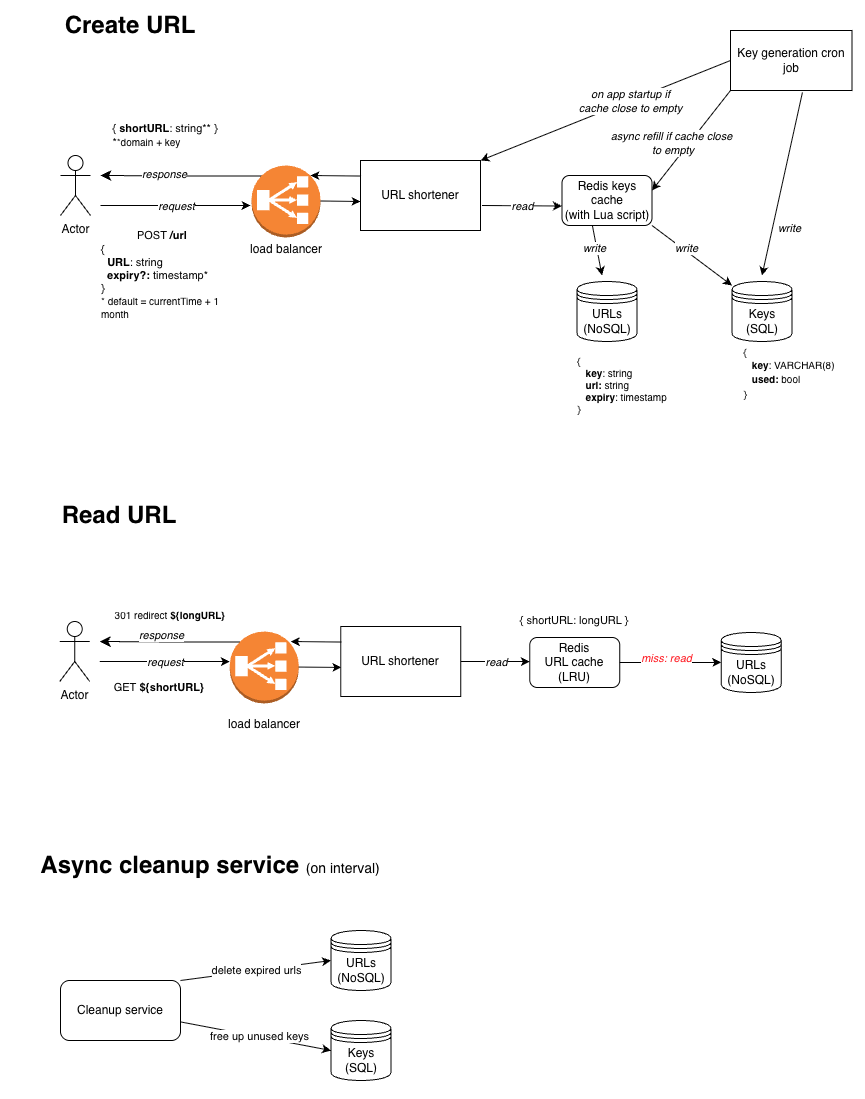
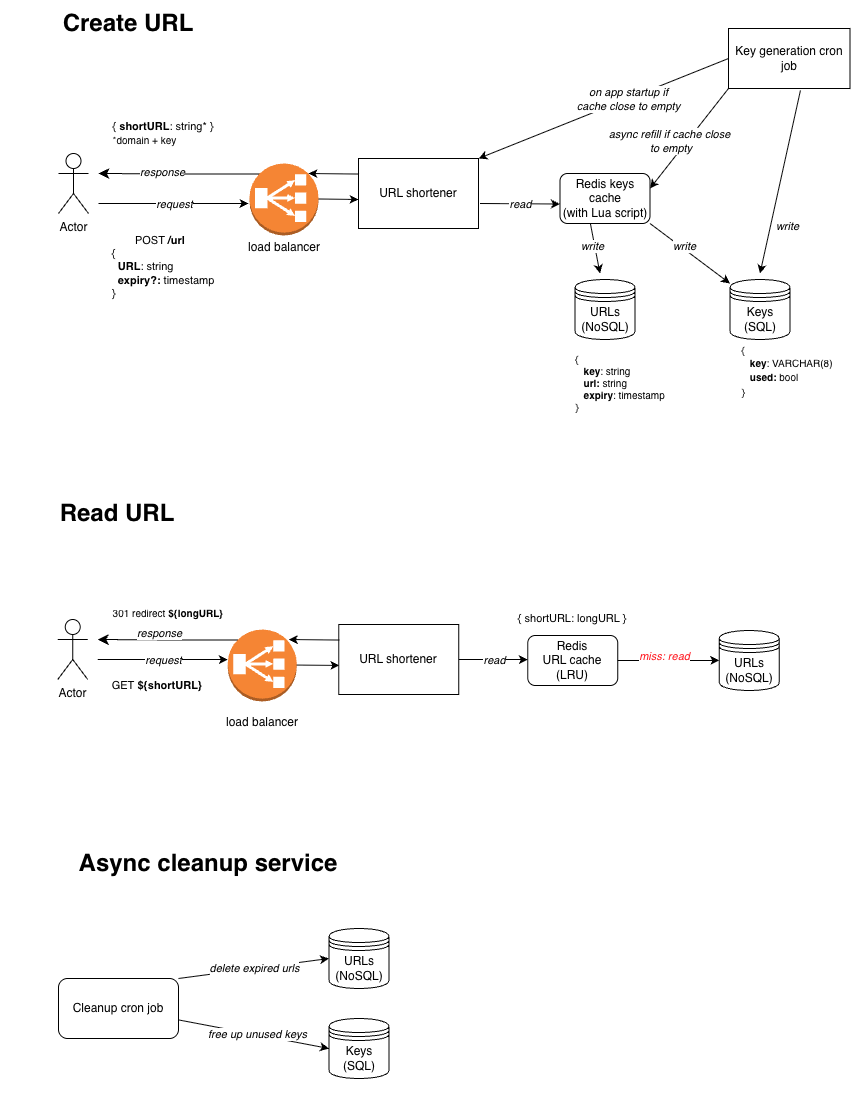
Removed TODO and updated app architecture diagram

diff --git a/internal/cache/urls/cache.go b/internal/cache/urls/cache.go
@@ -39,7 +39,6 @@ func (c *Cache) Get(ctx context.Context, key string) (string, bool) {
 }
 
 func (c *Cache) Add(ctx context.Context, urlData *model.UrlData, currentTimestamp time.Time) {
-	// TODO: discuss edge case where you get a url from the db that is already expired
 	var expiry time.Duration
 	switch urlData.Expiry {
 	case nil:
@@ -47,9 +46,8 @@ func (c *Cache) Add(ctx context.Context, urlData *model.UrlData, currentTimestam
 	default:
 		expiry = currentTimestamp.Sub(*urlData.Expiry)
 	}
-
+	
 	err := c.client.Set(ctx, urlData.Key, urlData.Url, expiry).Err()
-
 	if err != nil {
 		slog.Error("failed to insert urls into cache: ", slog.Any("error", err))
 	}
